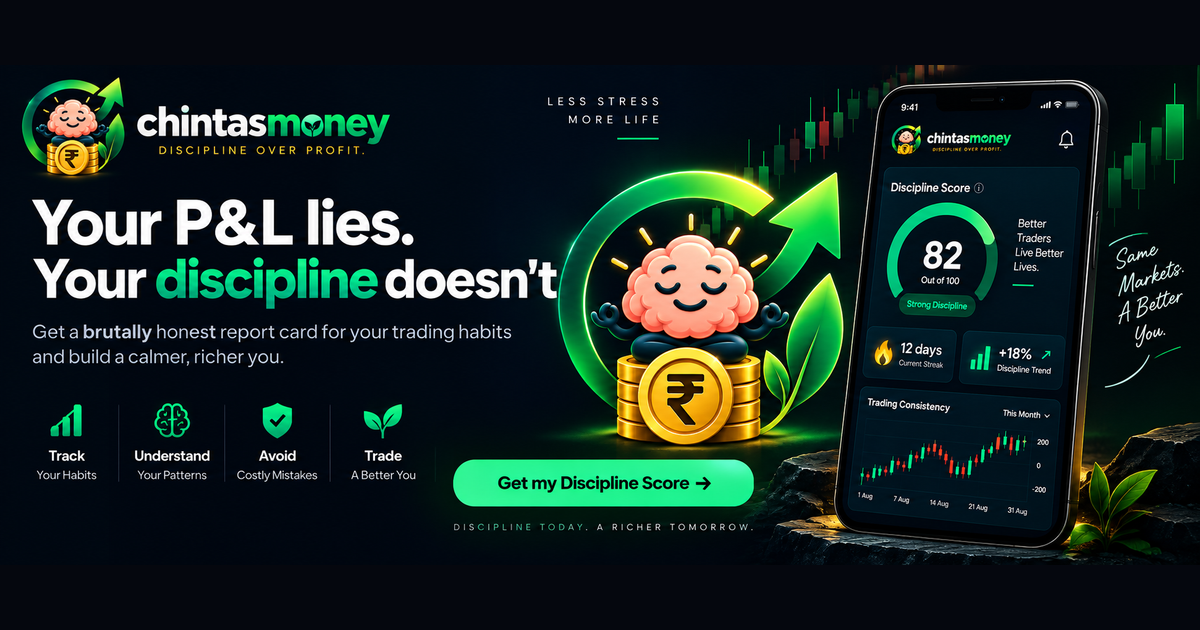
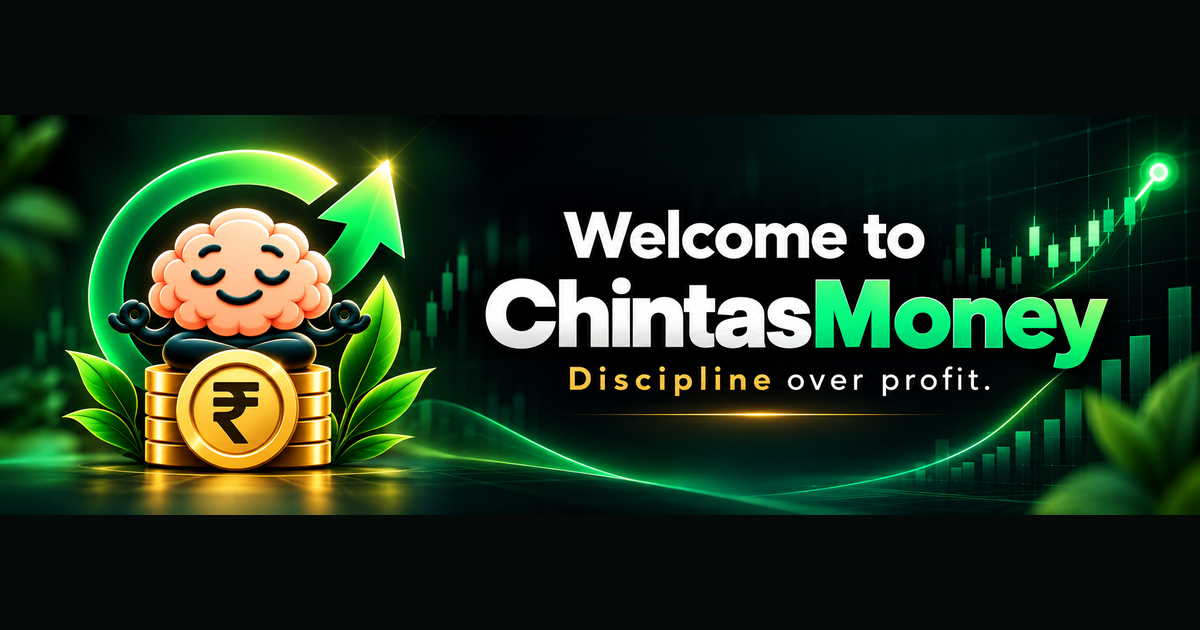
Social previews: branded og:image on all tool pages + refresh og-cover
- Every free tool page and the tools hub now have og:image + Twitter
  summary_large_image cards pointing to a branded 1200x630 cover, so
  WhatsApp/Telegram/X/LinkedIn shares show the ChintasMoney card instead
  of a blank link (amplifies the viral share buttons).
- Refreshed assets/og-cover.png with the new logo/branding (homepage
  preview updates too; tags unchanged).

Claude-Session: https://claude.ai/code/session_01JsD7YpqckwD5hiqNQX63bq

diff --git a/risk-reward-calculator.html b/risk-reward-calculator.html
@@ -12,6 +12,13 @@
   <meta property="og:description" content="See your risk:reward instantly from your entry, stop and target — and whether the trade is worth taking." />
   <meta property="og:url" content="https://chintasmoney.com/risk-reward-calculator" />
   <meta property="og:type" content="website" />
+  <meta property="og:image" content="https://chintasmoney.com/assets/og-cover.png" />
+  <meta property="og:image:width" content="1200" />
+  <meta property="og:image:height" content="630" />
+  <meta name="twitter:card" content="summary_large_image" />
+  <meta name="twitter:title" content="Free Risk-Reward Ratio Calculator — ChintasMoney" />
+  <meta name="twitter:description" content="See your risk:reward instantly from your entry, stop and target — and whether the trade is worth taking." />
+  <meta name="twitter:image" content="https://chintasmoney.com/assets/og-cover.png" />
   <link rel="icon" type="image/png" sizes="48x48" href="/assets/favicon.png" />
   <link rel="icon" type="image/png" sizes="192x192" href="/assets/logo-icon.png" />
   <link rel="apple-touch-icon" href="/assets/apple-touch-icon.png" />

diff --git a/brokerage-calculator.html b/brokerage-calculator.html
@@ -12,6 +12,13 @@
   <meta property="og:description" content="See your real net profit after brokerage, STT, GST and every charge — for intraday or delivery." />
   <meta property="og:url" content="https://chintasmoney.com/brokerage-calculator" />
   <meta property="og:type" content="website" />
+  <meta property="og:image" content="https://chintasmoney.com/assets/og-cover.png" />
+  <meta property="og:image:width" content="1200" />
+  <meta property="og:image:height" content="630" />
+  <meta name="twitter:card" content="summary_large_image" />
+  <meta name="twitter:title" content="Free Brokerage &amp; Charges Calculator — ChintasMoney" />
+  <meta name="twitter:description" content="See your real net profit after brokerage, STT, GST and every charge — for intraday or delivery." />
+  <meta name="twitter:image" content="https://chintasmoney.com/assets/og-cover.png" />
   <link rel="icon" type="image/png" sizes="48x48" href="/assets/favicon.png" />
   <link rel="icon" type="image/png" sizes="192x192" href="/assets/logo-icon.png" />
   <link rel="apple-touch-icon" href="/assets/apple-touch-icon.png" />

diff --git a/tools.html b/tools.html
@@ -12,6 +12,13 @@
   <meta property="og:description" content="Position size, risk-reward and brokerage calculators — free, no signup. Trade with discipline." />
   <meta property="og:url" content="https://chintasmoney.com/tools" />
   <meta property="og:type" content="website" />
+  <meta property="og:image" content="https://chintasmoney.com/assets/og-cover.png" />
+  <meta property="og:image:width" content="1200" />
+  <meta property="og:image:height" content="630" />
+  <meta name="twitter:card" content="summary_large_image" />
+  <meta name="twitter:title" content="Free Trading Tools &amp; Calculators — ChintasMoney" />
+  <meta name="twitter:description" content="Position size, risk-reward and brokerage calculators — free, no signup. Trade with discipline." />
+  <meta name="twitter:image" content="https://chintasmoney.com/assets/og-cover.png" />
   <link rel="icon" type="image/png" sizes="48x48" href="/assets/favicon.png" />
   <link rel="icon" type="image/png" sizes="192x192" href="/assets/logo-icon.png" />
   <link rel="apple-touch-icon" href="/assets/apple-touch-icon.png" />

diff --git a/profit-target-calculator.html b/profit-target-calculator.html
@@ -12,6 +12,13 @@
   <meta property="og:description" content="See your profit and return before you enter — plan the exit, not just the entry." />
   <meta property="og:url" content="https://chintasmoney.com/profit-target-calculator" />
   <meta property="og:type" content="website" />
+  <meta property="og:image" content="https://chintasmoney.com/assets/og-cover.png" />
+  <meta property="og:image:width" content="1200" />
+  <meta property="og:image:height" content="630" />
+  <meta name="twitter:card" content="summary_large_image" />
+  <meta name="twitter:title" content="Free Profit Target Calculator — ChintasMoney" />
+  <meta name="twitter:description" content="See your profit and return before you enter — plan the exit, not just the entry." />
+  <meta name="twitter:image" content="https://chintasmoney.com/assets/og-cover.png" />
   <link rel="icon" type="image/png" sizes="48x48" href="/assets/favicon.png" />
   <link rel="icon" type="image/png" sizes="192x192" href="/assets/logo-icon.png" />
   <link rel="apple-touch-icon" href="/assets/apple-touch-icon.png" />

diff --git a/position-size-calculator.html b/position-size-calculator.html
@@ -12,6 +12,13 @@
   <meta property="og:description" content="Work out exactly how much to trade so one bad trade never blows up your account." />
   <meta property="og:url" content="https://chintasmoney.com/position-size-calculator" />
   <meta property="og:type" content="website" />
+  <meta property="og:image" content="https://chintasmoney.com/assets/og-cover.png" />
+  <meta property="og:image:width" content="1200" />
+  <meta property="og:image:height" content="630" />
+  <meta name="twitter:card" content="summary_large_image" />
+  <meta name="twitter:title" content="Free Position Size Calculator — ChintasMoney" />
+  <meta name="twitter:description" content="Work out exactly how much to trade so one bad trade never blows up your account." />
+  <meta name="twitter:image" content="https://chintasmoney.com/assets/og-cover.png" />
   <link rel="icon" type="image/png" sizes="48x48" href="/assets/favicon.png" />
   <link rel="icon" type="image/png" sizes="192x192" href="/assets/logo-icon.png" />
   <link rel="apple-touch-icon" href="/assets/apple-touch-icon.png" />

diff --git a/average-price-calculator.html b/average-price-calculator.html
@@ -12,6 +12,13 @@
   <meta property="og:description" content="Add each buy to get your average cost per share instantly." />
   <meta property="og:url" content="https://chintasmoney.com/average-price-calculator" />
   <meta property="og:type" content="website" />
+  <meta property="og:image" content="https://chintasmoney.com/assets/og-cover.png" />
+  <meta property="og:image:width" content="1200" />
+  <meta property="og:image:height" content="630" />
+  <meta name="twitter:card" content="summary_large_image" />
+  <meta name="twitter:title" content="Free Average Price Calculator — ChintasMoney" />
+  <meta name="twitter:description" content="Add each buy to get your average cost per share instantly." />
+  <meta name="twitter:image" content="https://chintasmoney.com/assets/og-cover.png" />
   <link rel="icon" type="image/png" sizes="48x48" href="/assets/favicon.png" />
   <link rel="icon" type="image/png" sizes="192x192" href="/assets/logo-icon.png" />
   <link rel="apple-touch-icon" href="/assets/apple-touch-icon.png" />
